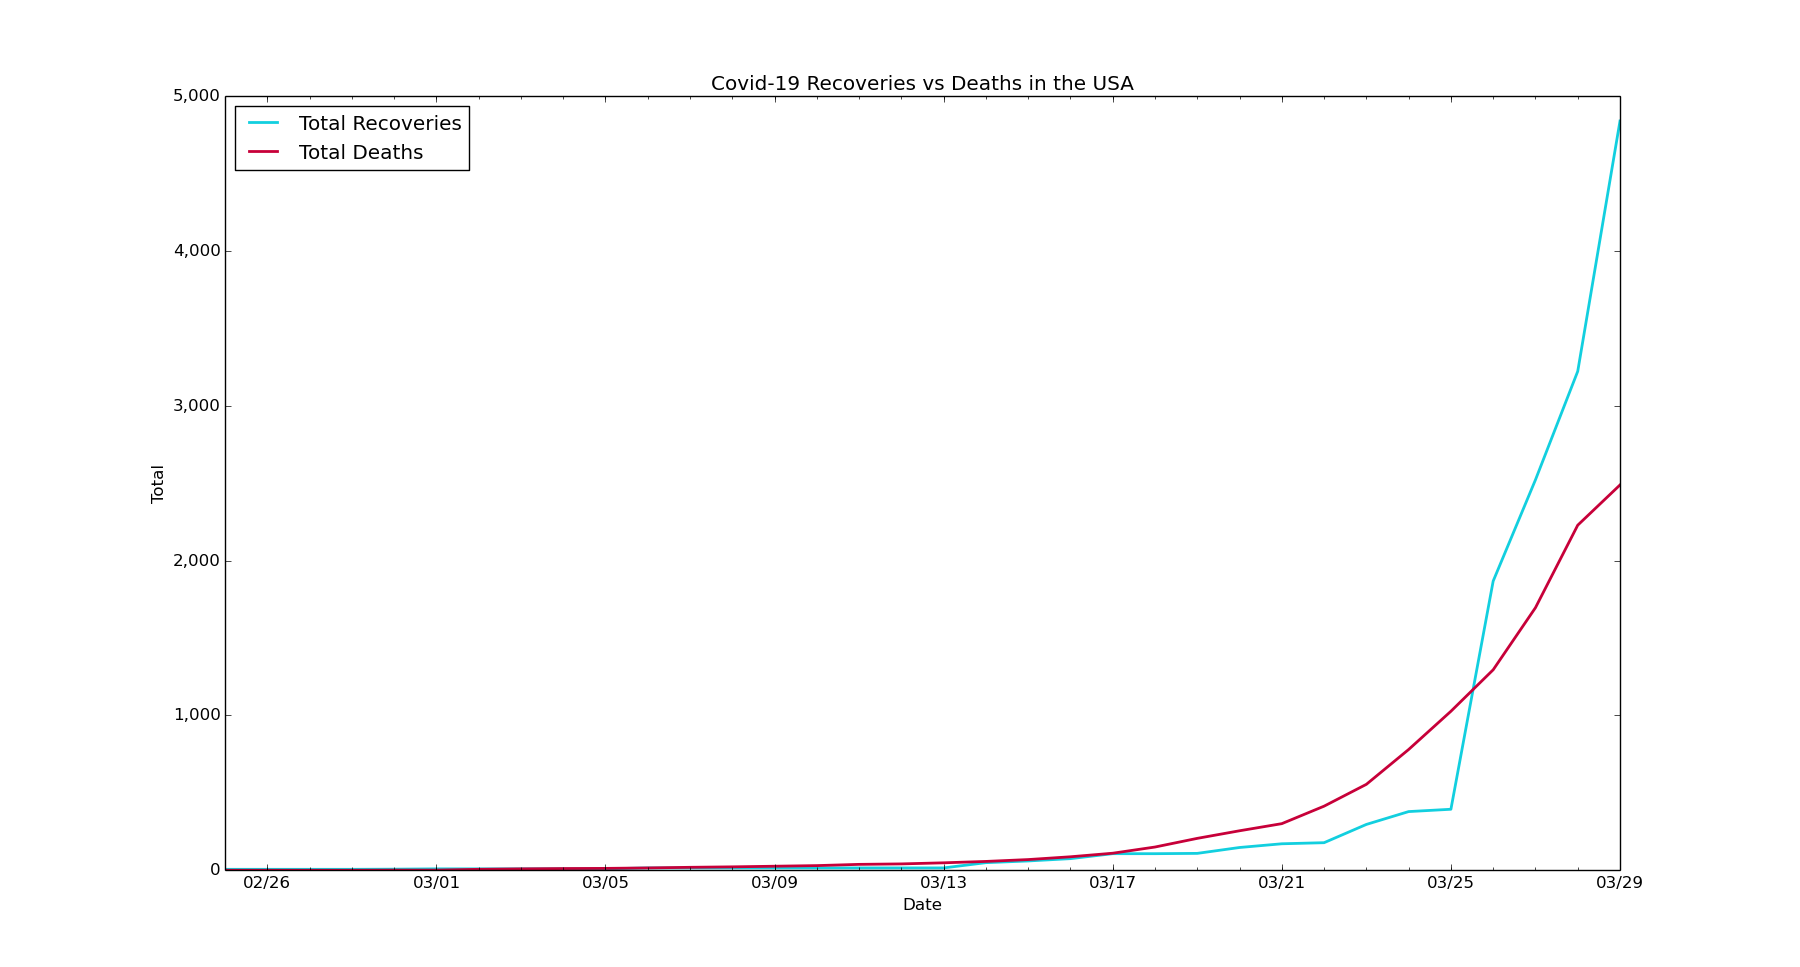
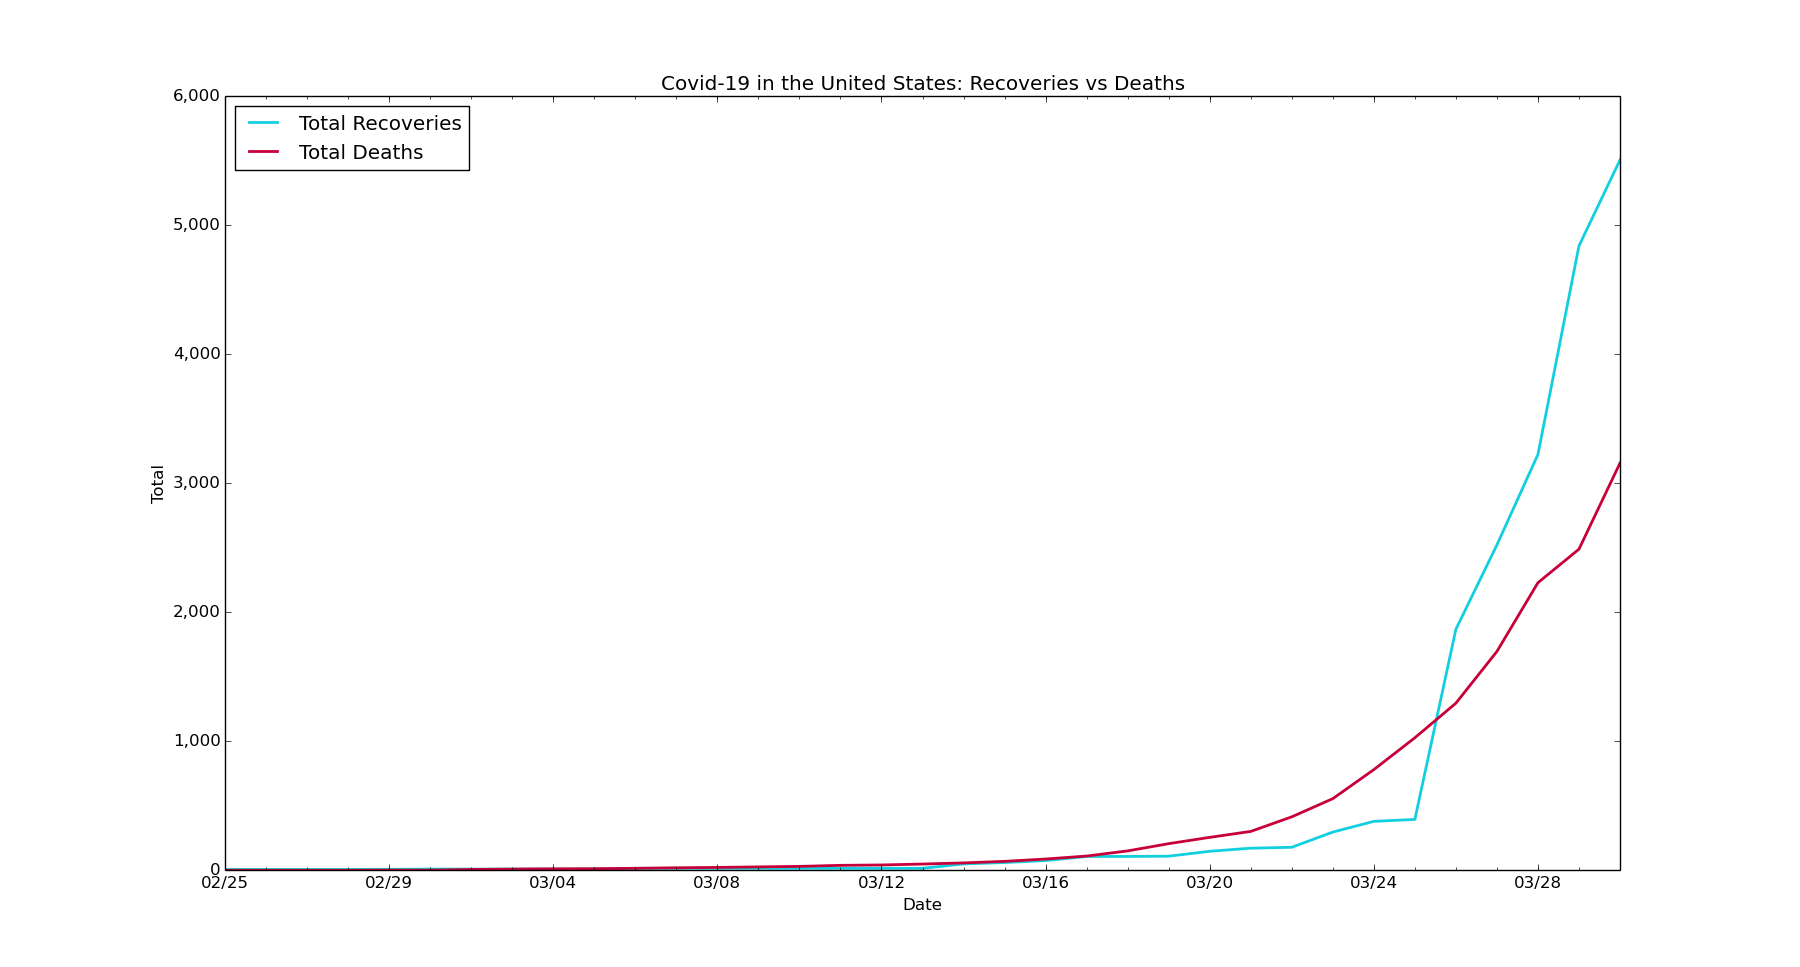
chore: Update USA data

diff --git a/usa/us-active.py b/usa/us-active.py
@@ -6,7 +6,7 @@ import matplotlib.dates as mdates
 import matplotlib.ticker as ticker
 from matplotlib.dates import MO, TU, WE, TH, FR, SA, SU
 
-dates = ['2/17/2020', '2/18/2020', '2/19/2020', '2/20/2020', '2/21/2020', '2/22/2020', '2/23/2020', '2/24/2020', '2/25/2020', '2/26/2020', '2/27/2020', '2/28/2020', '2/29/2020', '3/1/2020', '3/2/2020', '3/3/2020', '3/4/2020', '3/5/2020', '3/6/2020', '3/7/2020', '3/8/2020', '3/9/2020', '3/10/2020', '3/11/2020', '3/12/2020', '3/13/2020', '3/14/2020', '3/15/2020', '3/16/2020', '3/17/2020', '3/18/2020', '3/19/2020', '3/20/2020', '3/21/2020', '3/22/2020', '3/23/2020', '3/24/2020', '3/25/2020', '3/26/2020', '3/27/2020', '3/28/2020', '3/29/2020']
+dates = ['2/17/2020', '2/18/2020', '2/19/2020', '2/20/2020', '2/21/2020', '2/22/2020', '2/23/2020', '2/24/2020', '2/25/2020', '2/26/2020', '2/27/2020', '2/28/2020', '2/29/2020', '3/1/2020', '3/2/2020', '3/3/2020', '3/4/2020', '3/5/2020', '3/6/2020', '3/7/2020', '3/8/2020', '3/9/2020', '3/10/2020', '3/11/2020', '3/12/2020', '3/13/2020', '3/14/2020', '3/15/2020', '3/16/2020', '3/17/2020', '3/18/2020', '3/19/2020', '3/20/2020', '3/21/2020', '3/22/2020', '3/23/2020', '3/24/2020', '3/25/2020', '3/26/2020', '3/27/2020', '3/28/2020', '3/29/2020', '3/30/2020']
 
 # format dates
 x_values = [datetime.datetime.strptime(d, "%m/%d/%Y").date() for d in dates]
@@ -16,7 +16,7 @@ ax.xaxis.set_major_formatter(formatter)
 
 # create x-axis
 # major tick = every 3 days
-ax.xaxis.set_major_locator(mdates.WeekdayLocator(byweekday=(MO, TU, WE, TH, FR, SA, SU), interval=4))
+ax.xaxis.set_major_locator(mdates.WeekdayLocator(byweekday=(MO, TU, WE, TH, FR, SA, SU), interval=5))
 # minor tick = daily
 ax.xaxis.set_minor_locator(mdates.WeekdayLocator(byweekday=(MO, TU, WE, TH, FR, SA, SU)))
 
@@ -24,7 +24,7 @@ ax.xaxis.set_minor_locator(mdates.WeekdayLocator(byweekday=(MO, TU, WE, TH, FR, 
 ax.get_yaxis().set_major_formatter(ticker.FuncFormatter(lambda x, pos: format(int(x/1000))))
 
 # active cases by day
-active = [12, 12, 12, 10, 29, 29, 28, 48, 51, 54, 54, 57, 60, 65, 85, 106, 138, 200, 289, 401, 504, 663, 949, 1248, 1581, 2126, 2664, 3484, 4434, 6127, 8940, 13464, 18965, 23720, 33000, 42930, 53697, 66790, 82272, 99908, 118126, 135417]
+active = [12, 12, 12, 10, 29, 29, 28, 48, 51, 54, 54, 57, 60, 65, 85, 106, 138, 200, 289, 401, 504, 663, 949, 1248, 1581, 2126, 2664, 3484, 4434, 6127, 8940, 13464, 18965, 23720, 33000, 42930, 53697, 66790, 82272, 99908, 118126, 135417, 155182]
 
 # text labels
 plt.title('Covid-19 in the United States: Total Active Cases')

diff --git a/usa/us-rvd.py b/usa/us-rvd.py
@@ -6,7 +6,7 @@ import matplotlib.dates as mdates
 import matplotlib.ticker as ticker
 from matplotlib.dates import MO, TU, WE, TH, FR, SA, SU
 
-dates = ['2/25/2020', '2/26/2020', '2/27/2020', '2/28/2020', '2/29/2020', '3/1/2020', '3/2/2020', '3/3/2020', '3/4/2020', '3/5/2020', '3/6/2020', '3/7/2020', '3/8/2020', '3/9/2020', '3/10/2020', '3/11/2020', '3/12/2020', '3/13/2020', '3/14/2020', '3/15/2020', '3/16/2020', '3/17/2020', '3/18/2020', '3/19/2020', '3/20/2020', '3/21/2020', '3/22/2020', '3/23/2020', '3/24/2020', '3/25/2020', '3/26/2020', '3/27/2020', '3/28/2020', '3/29/2020']
+dates = ['2/25/2020', '2/26/2020', '2/27/2020', '2/28/2020', '2/29/2020', '3/1/2020', '3/2/2020', '3/3/2020', '3/4/2020', '3/5/2020', '3/6/2020', '3/7/2020', '3/8/2020', '3/9/2020', '3/10/2020', '3/11/2020', '3/12/2020', '3/13/2020', '3/14/2020', '3/15/2020', '3/16/2020', '3/17/2020', '3/18/2020', '3/19/2020', '3/20/2020', '3/21/2020', '3/22/2020', '3/23/2020', '3/24/2020', '3/25/2020', '3/26/2020', '3/27/2020', '3/28/2020', '3/29/2020', '3/30/2020']
 
 # format dates
 x_values = [datetime.datetime.strptime(d, "%m/%d/%Y").date() for d in dates]
@@ -24,10 +24,10 @@ ax.xaxis.set_minor_locator(mdates.WeekdayLocator(byweekday=(MO, TU, WE, TH, FR, 
 ax.get_yaxis().set_major_formatter(ticker.FuncFormatter(lambda x, pos: format(int(x), ',')))
 
 # recoveries by day
-recoveries = [6, 6, 6, 6, 7, 9, 9, 9, 9, 9, 15, 15, 15, 15, 15, 15, 15, 15, 49, 60, 75, 107, 107, 109, 147, 171, 178, 296, 379, 394, 1868, 2522, 3223, 4840]
+recoveries = [6, 6, 6, 6, 7, 9, 9, 9, 9, 9, 15, 15, 15, 15, 15, 15, 15, 15, 49, 60, 75, 107, 107, 109, 147, 171, 178, 296, 379, 394, 1868, 2522, 3223, 4840, 5506]
 
 # deaths by day
-deaths = [0, 0, 0, 0, 1, 1, 6, 9, 11, 12, 15, 19, 22, 26, 30, 38, 41, 48, 57, 69, 87, 110, 150, 206, 255, 301, 414, 555, 780, 1027, 1295, 1696, 2229, 2489]
+deaths = [0, 0, 0, 0, 1, 1, 6, 9, 11, 12, 15, 19, 22, 26, 30, 38, 41, 48, 57, 69, 87, 110, 150, 206, 255, 301, 414, 555, 780, 1027, 1295, 1696, 2229, 2489, 3156]
 
 # create the graph
 plt.plot(x_values, recoveries, color='#12cfdf', linewidth=2)
